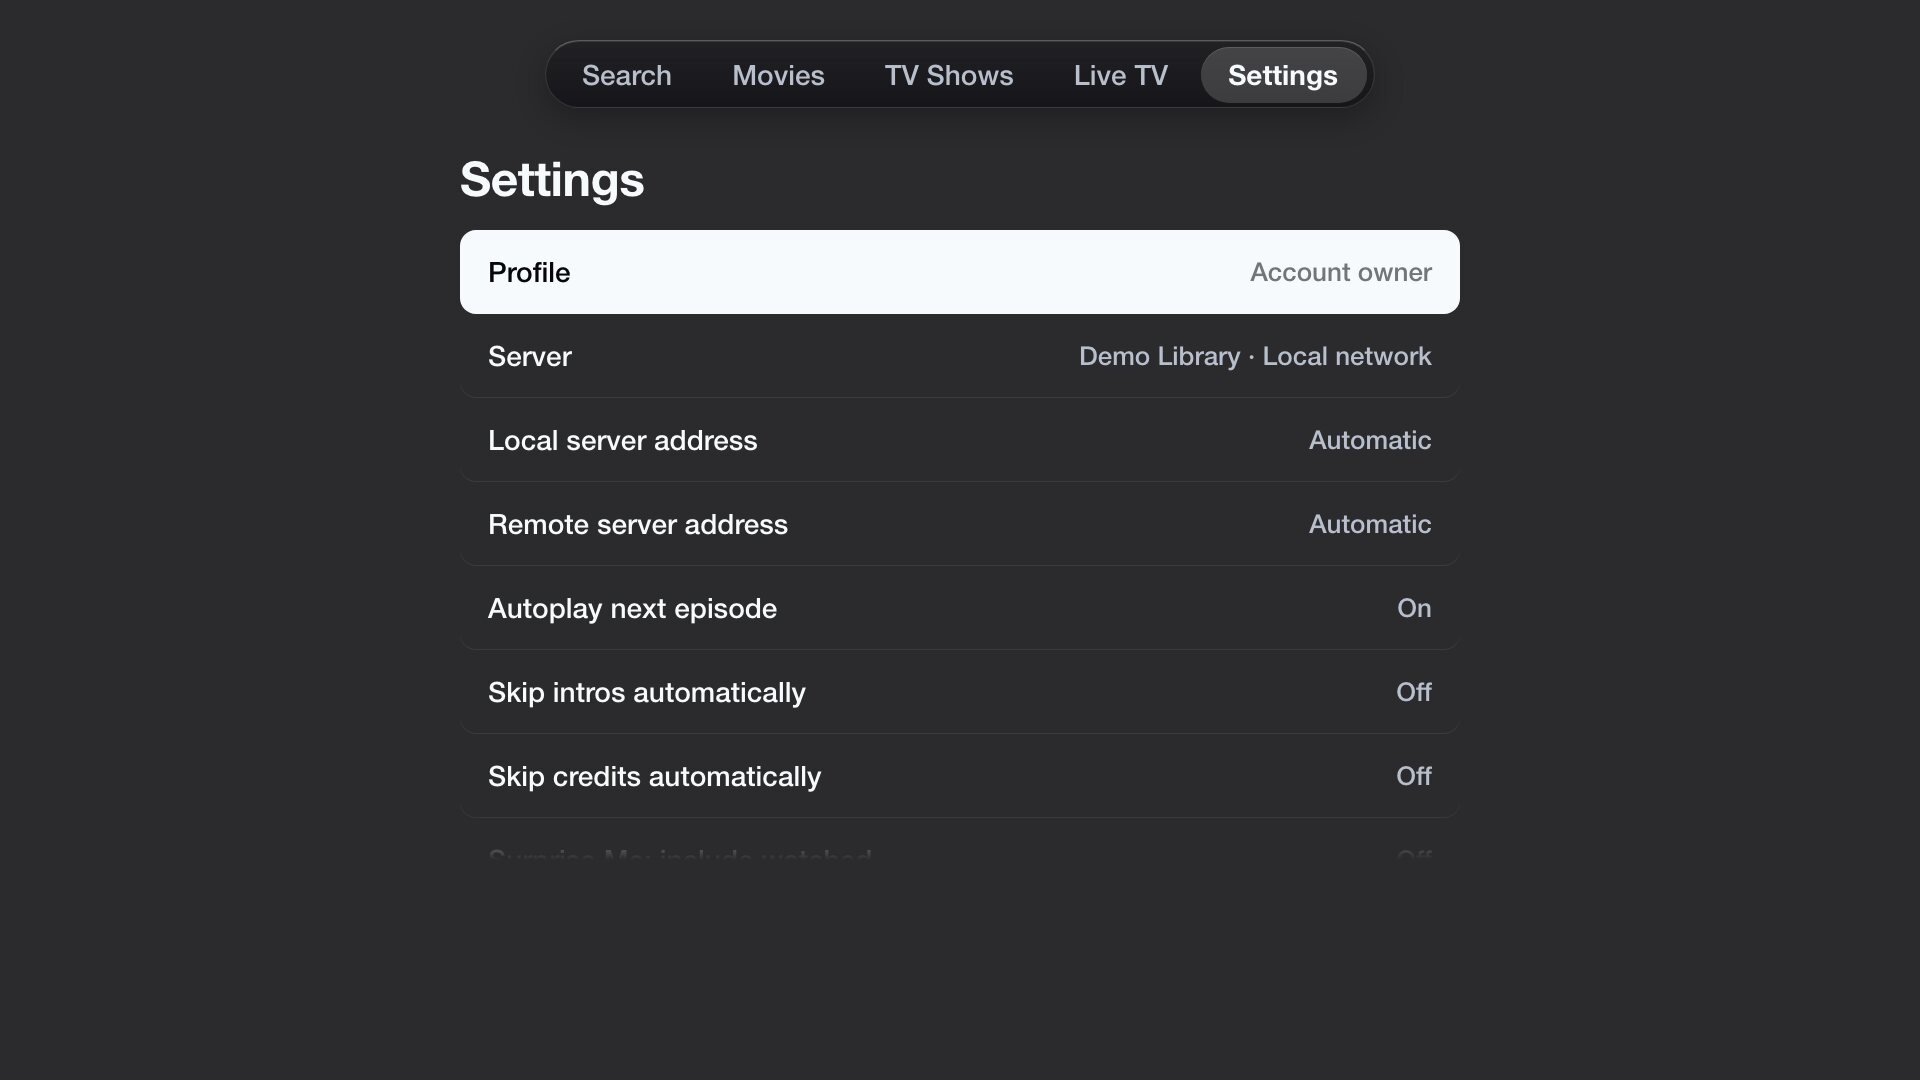
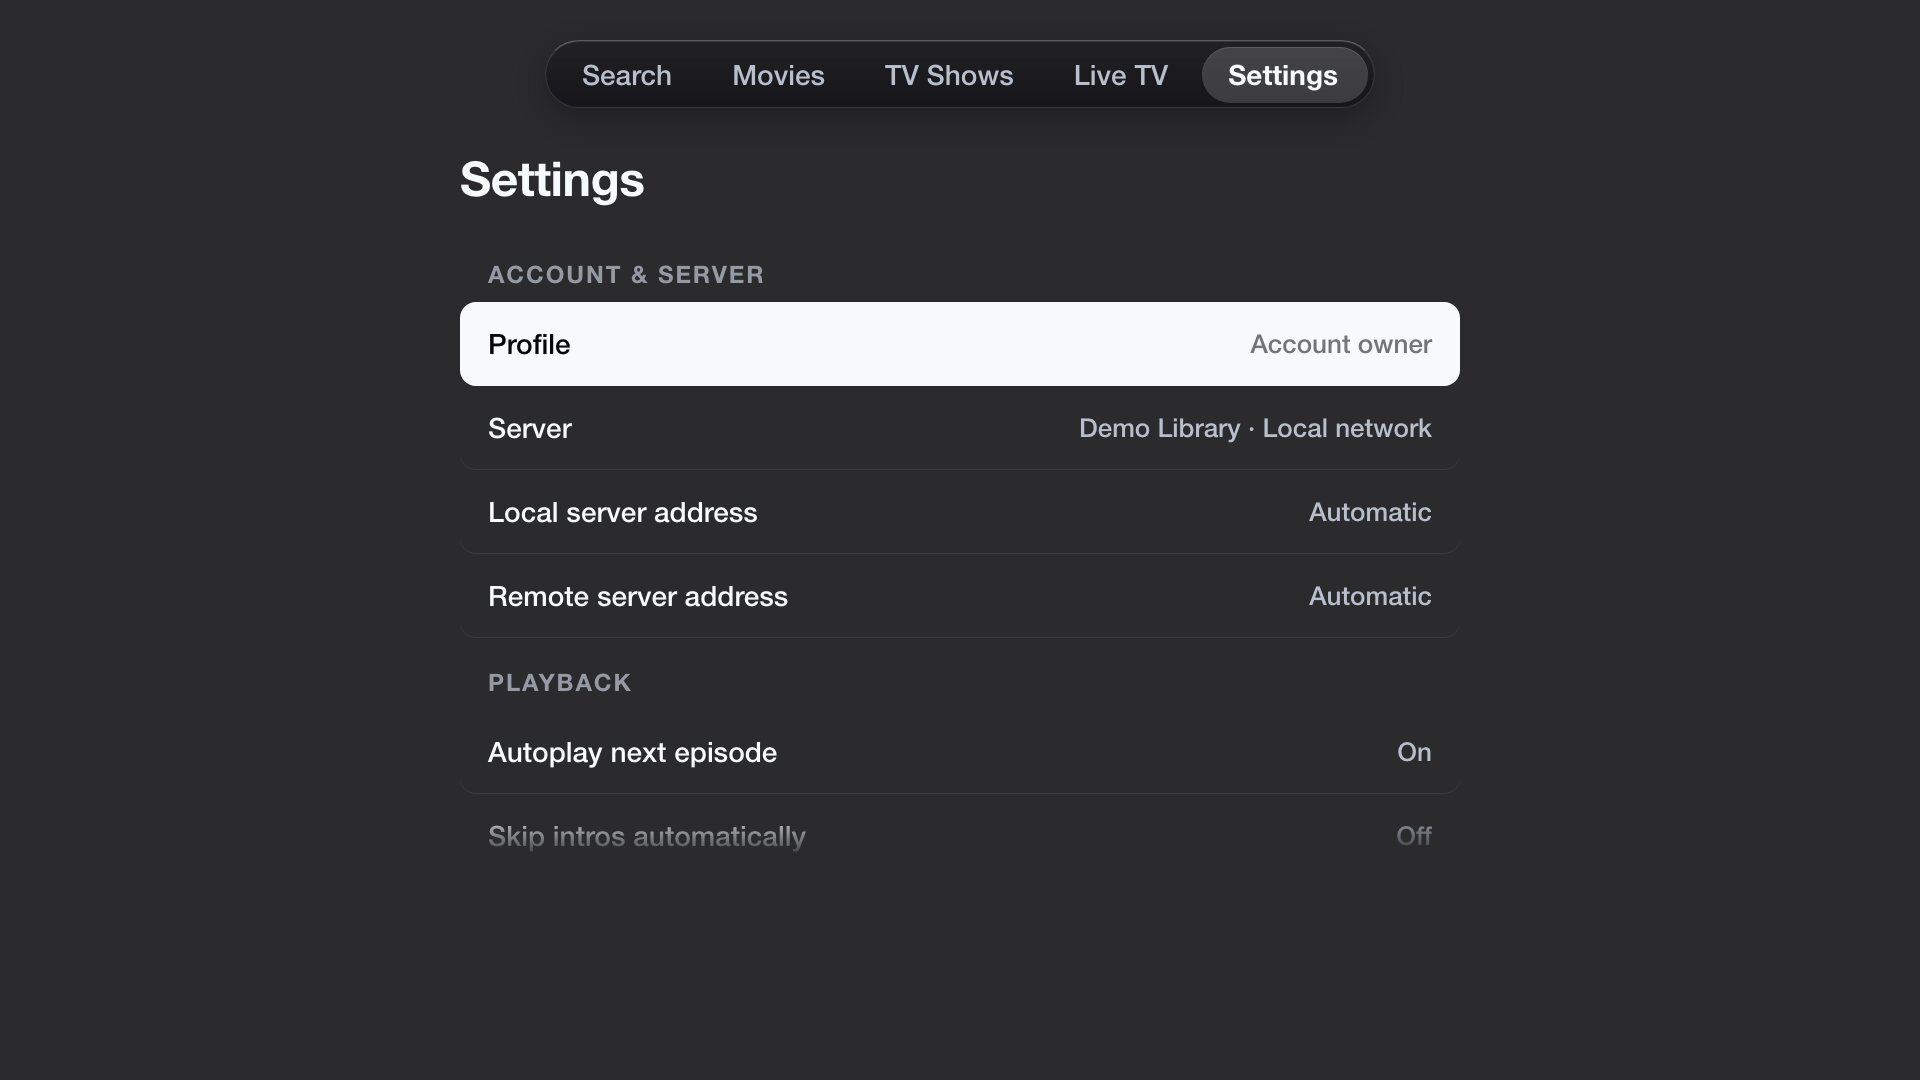
Settings: group rows under headings, Advanced at the end; Blue no longer toggles the perf overlay
Settings (TV and laptop) is grouped: Account & server, This browser (web), Playback, Surprise Me,
Plugins, Advanced, About. Headings are quiet uppercase labels that never take the focus; the list
scrolls to a heading or row boundary and keeps a group's heading above its first row. Advanced holds
Performance stats (formerly "Frame-rate meter") and Refresh search index. On phones and tablets,
Refresh search index moves to a new Advanced group.

Blue now only goes to screens that want it (Live TV guide, Browse, live player) and does nothing
elsewhere: a stray press had turned the perf overlay on during playback. app.perf stays for tools.

diff --git a/js/screens/settings.js b/js/screens/settings.js
@@ -1,4 +1,5 @@
-// Settings: server connection, frame-rate meter, sign out, about.
+// Settings: grouped rows (account and server, this browser on the web, playback, Surprise Me,
+// plugins, advanced, about) under section headings that the focus skips.
 'use strict';
 
 (function () {
@@ -30,27 +31,18 @@
       return { label: label, value: on ? 'On' : 'Off', action: function () { PL.storage.set(key, !on); build(); } };
     }
 
+    // Rows are grouped under section headings (quiet labels that never take the focus). Heights
+    // match css/theme.css (.row, .settings-heading): positions are worked out here, not measured.
+    var ROW = 84;
+    var HEAD = 72;
+    var height = 0;
+    var stops = []; // the top of every heading and row: the list scrolls to one of them
+
     function build() {
       var s = server();
-      var defs = [
-        { label: 'Profile', value: (PL.storage.get('profile', null) || { title: 'Account owner' }).title, action: pickProfile },
-        { label: 'Server', value: (s.name || '—') + ' · ' + (KIND_LABEL[s.kind] || 'Unknown'), action: reconnect },
-        // a browser on an https page can only use https addresses: one row, tried before discovery
-        PL.isWeb ? null : addressRow('Local server address', 'local', 'e.g. http://192.168.0.10:32400'),
-        addressRow(PL.isWeb ? 'Server address' : 'Remote server address', 'remote', 'e.g. https://plex.example.com:32400'),
-        PL.isWeb ? PL.web.settingsRows(build) : null,
-        toggle('Autoplay next episode', 'autoplayNext', true),
-        toggle('Skip intros automatically', 'autoSkipIntro', false),
-        toggle('Skip credits automatically', 'autoSkipCredits', false),
-        toggle('Surprise Me: include watched', 'surprise.includeWatched', false),
-        toggle('Surprise Me: autoplay countdown', 'surprise.autoplay', true),
-        { label: 'Frame-rate meter', value: PL.app.perf.on ? 'On' : 'Off', action: function () { PL.app.perf.toggle(); build(); } },
-        { label: 'Refresh search index', value: '', action: function () { if (PL.fuzzy && PL.fuzzy.rebuild) { PL.fuzzy.rebuild(); PL.toast('Rebuilding the search index…'); } } },
-        { label: 'Sign out', value: '', action: signOut },
-        { label: 'About', value: 'Plex Lite ' + PL.VERSION, action: function () {} },
-      ];
-      // Plugins: an On/Off row per installed plugin, then the enabled plugins' own rows; all before
-      // Sign out / About.
+      // Plugins: an On/Off row per installed plugin, then the enabled plugins' own rows, the ones this
+      // build can't run (the web build: a TV background service) saying why, installed sandboxed
+      // plugins, and Browse plugins.
       var pluginToggles = PL.plugins.list().filter(function (p) { return !p.external; }).map(function (p) {
         return {
           label: 'Plugin · ' + p.name,
@@ -62,30 +54,78 @@
           },
         };
       });
-      // plugins this build can't run (the web build: ones with a TV background service) say why
       var unavailable = PL.plugins.unavailable.map(function (p) {
         return { label: 'Plugin · ' + p.name, value: 'TV app only', action: function () { PL.web.explainPlugin(p); } };
       });
-      defs.splice(defs.length - 2, 0, pluginToggles, unavailable, externalPluginRows(), PL.plugins.settingsRows(build));
-      defs = [].concat.apply([], defs).filter(Boolean);
+      var groups = [
+        ['Account & server', [
+          { label: 'Profile', value: (PL.storage.get('profile', null) || { title: 'Account owner' }).title, action: pickProfile },
+          { label: 'Server', value: (s.name || '—') + ' · ' + (KIND_LABEL[s.kind] || 'Unknown'), action: reconnect },
+          // a browser on an https page can only use https addresses: one row, tried before discovery
+          PL.isWeb ? null : addressRow('Local server address', 'local', 'e.g. http://192.168.0.10:32400'),
+          addressRow(PL.isWeb ? 'Server address' : 'Remote server address', 'remote', 'e.g. https://plex.example.com:32400'),
+        ]],
+        PL.isWeb ? ['This browser', PL.web.settingsRows(build)] : null,
+        ['Playback', [
+          toggle('Autoplay next episode', 'autoplayNext', true),
+          toggle('Skip intros automatically', 'autoSkipIntro', false),
+          toggle('Skip credits automatically', 'autoSkipCredits', false),
+        ]],
+        ['Surprise Me', [
+          toggle('Include watched titles', 'surprise.includeWatched', false),
+          toggle('Autoplay countdown', 'surprise.autoplay', true),
+        ]],
+        ['Plugins', [pluginToggles, PL.plugins.settingsRows(build), unavailable, externalPluginRows()]],
+        ['Advanced', [
+          // the overlay in js/app.js: frames a second, the longest frame, JS heap and DOM nodes
+          { label: 'Performance stats', value: PL.app.perf.on ? 'On' : 'Off', action: function () { PL.app.perf.toggle(); build(); } },
+          { label: 'Refresh search index', value: '', action: function () { if (PL.fuzzy && PL.fuzzy.rebuild) { PL.fuzzy.rebuild(); PL.toast('Rebuilding the search index…'); } } },
+        ]],
+        ['About', [
+          { label: 'Plex Lite', value: PL.VERSION, action: function () {} },
+          { label: 'Sign out', value: '', action: signOut },
+        ]],
+      ];
       PL.clear(panel);
-      rows = defs.map(function (d, i) {
-        var n = PL.el('div', 'row', d.label);
-        if (d.value) n.appendChild(PL.el('span', 'row-value', d.value));
-        n.addEventListener('click', function () { index = i; d.action(); });
-        panel.appendChild(n);
-        return { node: n, def: d };
+      rows = [];
+      stops = [];
+      height = 0;
+      groups.forEach(function (g) {
+        var list = g ? [].concat.apply([], g[1]).filter(Boolean) : [];
+        if (!list.length) return;
+        panel.appendChild(PL.el('div', 'settings-heading', g[0]));
+        stops.push(height);
+        height += HEAD;
+        list.forEach(function (d) {
+          var i = rows.length;
+          var n = PL.el('div', 'row', d.label);
+          if (d.value) n.appendChild(PL.el('span', 'row-value', d.value));
+          n.addEventListener('click', function () { index = i; d.action(); });
+          panel.appendChild(n);
+          rows.push({ node: n, def: d, top: height });
+          stops.push(height);
+          height += ROW;
+        });
       });
+      // a rebuild can have fewer rows (a plugin removed)
+      index = Math.max(0, Math.min(index, rows.length - 1));
       paint();
     }
 
-    // the panel shows ~8 rows; longer lists scroll to keep the focused row in view
+    // The panel shows 630 px (~7.5 rows); a longer list scrolls so the focused row's bottom edge stays
+    // within the first seven rows' height, so a half row always peeks under the fade, and the top edge
+    // lands on a heading or row (no sliver of the one above). At least 420 px stay in view above the
+    // focused row, so a group's heading always shows above its first row.
     function paint() {
       rows.forEach(function (r, i) { r.node.classList.toggle('focused', area === 'panel' && !PL.app.tabsFocused && i === index); });
-      // ~7.5 rows show (690 px panel), so a half row always peeks under the fade
-      var shift = Math.max(0, (index + 1) * 84 - 84 * 7);
+      var r = rows[index];
+      var need = r ? r.top + ROW - ROW * 7 : 0;
+      var shift = 0;
+      for (var i = 0; need > 0 && i < stops.length; i++) {
+        if (stops[i] >= need) { shift = stops[i]; break; }
+      }
       PL.translate(panel, 0, -shift);
-      panelBox.classList.toggle('more', rows.length * 84 - shift > 630);
+      panelBox.classList.toggle('more', height - shift > 630);
     }
 
     function reconnect() {
@@ -136,16 +176,16 @@
     }
 
     // Separately installed (sandboxed) plugins: status row → a sheet with permissions, enable
-    // (consent), its own settings, turn off, and remove access.
+    // (consent), its own settings, turn off, and remove access. Browse plugins comes last.
     function externalPluginRows() {
       var host = PL.pluginHost;
       if (!host || !host.list || !host.grants) return [];
       var browse = PL.pluginStore ? [{ label: 'Browse plugins', value: '', action: browsePlugins }] : [];
-      return browse.concat(host.list().map(function (p) {
+      return host.list().map(function (p) {
         var on = p.active && PL.plugins.isEnabled(p.id);
         var value = p.disabled ? 'Error' : !p.active ? (host.grants.get(p.id) ? 'Needs permission' : 'Off') : on ? (p.holdsToken ? 'On · Plex sign-in' : 'On') : 'Off';
         return { label: 'Plugin · ' + p.title, value: value, action: function () { externalPluginSheet(p); } };
-      }));
+      }).concat(browse);
     }
 
     var STATE_TEXT = { 'not-installed': 'Not installed', installed: 'Installed', connected: 'Connected' };

diff --git a/web/touch/screens/settings.js b/web/touch/screens/settings.js
@@ -2,8 +2,9 @@
 // right of every tab opens it. It is a stack of sheets, not a page: who's signed in and Switch
 // profile, the libraries and plugin tabs that have no tab of their own, the server, playback,
 // Controls and the other browser settings, plugins (installed, the catalogue, Overseerr's web
-// path), About and Sign out. Everything the TV's Settings offers in a browser, from the same shared
-// code (PL.plex, PL.input, PL.web, PL.plugins, PL.pluginHost, PL.pluginStore).
+// path), Advanced (Refresh search index), About and Sign out. Everything the TV's Settings offers in
+// a browser, from the same shared code (PL.plex, PL.input, PL.web, PL.plugins, PL.pluginHost,
+// PL.pluginStore).
 //
 // Plugins and parts of the web layer open the TV's own sheets and text entry (PL.screens.sheet,
 // PL.screens.textEntry, PL.web.info) and close them with PL.app.pop(). While the layer shows, those
@@ -921,6 +922,9 @@
       PL.web ? { label: 'Local network access', value: PL.web.lnaLabel(), next: true, action: () => PL.web.explainLna() } : null,
       fullscreenOk() ? { label: 'Full screen', toggle: isFull(), action: () => { PL.web.toggleFullscreen(); setTimeout(refreshAll, 400); } } : null,
       PL.input.detected() !== 'touch' && PL.web && PL.web.shortcuts ? { label: 'Keyboard shortcuts', sub: 'Shown over the page; ? opens them too', next: true, action: () => PL.web.shortcuts() } : null,
+    ];
+    // as on the TV (js/screens/settings.js); the TV's Performance stats overlay isn't drawn on this layer
+    const advanced = [
       PL.fuzzy && PL.fuzzy.rebuild ? { label: 'Refresh search index', sub: 'If Search misses new titles', action: () => { PL.fuzzy.rebuild(); T.toast('Rebuilding the search index…'); } } : null,
     ];
     // bundled plugins' own rows (Overseerr), then Overseerr's web requirements
@@ -952,6 +956,7 @@
         ] },
         { heading: 'This device', rows: device },
         { heading: 'Plugins', rows: pluginRows.concat([{ label: 'Plugins', value: installed ? String(installed) : '', sub: 'Installed plugins and the catalogue', icon: 'grid', next: true, action: pluginsSheet }]) },
+        { heading: 'Advanced', rows: advanced },
         { heading: 'About', rows: [
           { label: 'Plex Lite', value: PL.VERSION, icon: 'info', next: true, action: aboutSheet },
           { label: 'Sign out', icon: 'signout', danger: true, action: signOut },

diff --git a/js/app.js b/js/app.js
@@ -302,9 +302,10 @@
     if (typing && code === PL.KEY.BACKSPACE) return; // deletes a character, not "back"
     if (typing && !PL.isBack(code) && code !== PL.KEY.DOWN && code !== PL.KEY.UP && code !== PL.KEY.ENTER) return;
     var screen = app.top();
-    // Blue: Live TV's Browse rail where there is one (guide, live player), else the perf overlay
+    // Blue: Live TV's Browse rail where there is one (guide, Browse, live player); nothing elsewhere.
+    // (It used to toggle the perf overlay, which a stray press turned on: that is in Settings now.)
     if (code === PL.KEY.BLUE && !typing) {
-      if (!(screen && screen.wantsBlue && screen.key && screen.key(code, e))) perf.toggle();
+      if (screen && screen.wantsBlue && screen.key) screen.key(code, e);
       e.preventDefault();
       return;
     }
@@ -327,7 +328,7 @@
     if (handled || (code >= 37 && code <= 40)) e.preventDefault();
   }
 
-  // ---- Performance overlay (Blue button) ---------------------------------------------------
+  // ---- Performance overlay (Settings > Advanced > Performance stats; app.perf for tools) -----
 
   var perf = {
     el: null,

diff --git a/css/theme.css b/css/theme.css
@@ -196,6 +196,11 @@ html, body { background: var(--ground); color: var(--text); }
 .row .row-value { font-size: 26px; color: var(--text-2); }
 .row.focused { background: var(--focus); color: var(--focus-ink); box-shadow: none; }
 .row.focused .row-value { color: rgba(8, 8, 10, 0.55); }
+/* a group's heading in Settings: a quiet label, never focused (72 px: js/screens/settings.js HEAD) */
+.settings-heading {
+  height: 72px; padding: 30px 28px 0; font-size: 24px; line-height: 28px; font-weight: 600;
+  letter-spacing: 0.08em; text-transform: uppercase; color: var(--text-3); white-space: nowrap;
+}
 
 .center-card {
   background: linear-gradient(180deg, rgba(58, 58, 64, 0.6), rgba(40, 40, 46, 0.6));

diff --git a/CHANGELOG.md b/CHANGELOG.md
@@ -11,6 +11,14 @@ releases are fixes only.
 
 ### Changed
 
+- **Settings is grouped** under section headings: Account & server, This browser (web), Playback,
+  Surprise Me, Plugins, Advanced and About. The headings are labels only: Up and Down skip them.
+  Advanced holds Performance stats (the developer overlay: frames a second, the longest frame, JS
+  heap and DOM nodes, formerly "Frame-rate meter") and Refresh search index. On phones and tablets,
+  Refresh search index moves from This device to a new Advanced group.
+- **Blue no longer turns on the performance overlay.** Outside Live TV (the guide, Browse and the
+  live player, where it opens Browse) Blue does nothing; the overlay is Settings → Advanced →
+  Performance stats.
 - **Continue Watching plays at once**, on the TV, laptops and phones: choosing an episode in Continue
   Watching or Recently Released Episodes, or a film in Continue Watching, starts it (resuming where it
   was left) instead of opening its page. Hold OK, right-click, "…" or a long press still offer the
@@ -127,8 +135,8 @@ releases are fixes only.
 ### Changed
 
 - Live TV's filter row (All, Favourites, Movies, Sports, News) is replaced by the Browse rail and its
-  chips; Blue opens Browse on the Live TV tab and in the live player (the frame-time overlay stays on
-  Blue elsewhere).
+  chips; Blue opens Browse on the Live TV tab and in the live player, and does nothing elsewhere (the
+  frame-time overlay moved to Settings → Advanced → Performance stats).
 - Live TV rebuilt (docs/LIVETV-v2-design.md). The tab is a two-hour guide grid of every channel in
   the DVR's lineup (channels without guide data too), with the focused programme's details, synopsis
   and artwork above it, filters (All, Favourites, Movies, Sports, News), number keys to jump to a

diff --git a/docs/DESIGN.md b/docs/DESIGN.md
@@ -86,7 +86,10 @@ Transform and opacity only.
   silver or pale on a transparent background, with little that is dark) gets a dark `#3b3e46` plate
   with a hairline rim. Each logo is sampled once in a 32×16 canvas (Plex sends CORS headers);
   mid-grey if it can't be read (`js/logos.js`, `css/logos.css`).
-- **Settings:** quiet rows on the ground (hairline separators), white plate on focus.
+- **Settings:** quiet rows on the ground (hairline separators), white plate on focus, in groups
+  (Account & server, This browser on the web, Playback, Surprise Me, Plugins, Advanced, About) under
+  24 px uppercase `--text-3` labels like a sheet's headings. The labels never take the focus; Up and
+  Down skip them, and the list scrolls so a group's label shows above its first row.
 - **Live TV** (spec and remote tables in [LIVETV-v2-design.md](LIVETV-v2-design.md)): a two-hour time
   grid on the plain ground, six channels down. The focused programme's details sit above it like a small
   hero (red LIVE pill, 48 px title, a two-line synopsis, 400×225 art at the right); a ruler with a teal

diff --git a/docs/LIVETV-browse-design.md b/docs/LIVETV-browse-design.md
@@ -184,8 +184,9 @@ Cards exist only for the shelves near the focus (two each way), so art loads onl
 | Player | Blue | the Browse rail over the picture |
 | | Up / Down, CH+ / CH− | the mini guide and zapping stay inside the filter |
 
-Blue used to toggle a developer frame-time overlay everywhere; it still does outside the Live TV tab
-and the live player.
+Blue used to toggle a developer frame-time overlay everywhere, and still did outside the Live TV tab
+and the live player until a stray press turned it on during a film. Blue now does nothing outside
+Live TV; the overlay is Settings → Advanced → Performance stats.
 
 ## Data and speed
 

diff --git a/README.md b/README.md
@@ -137,7 +137,7 @@ Spin again, Details and Cancel are on screen. Moving between them stops the coun
 cancels.
 
 - It picks from unwatched titles. If everything has been watched, it picks from all of them and
-  says it's a rewatch. Settings has "Surprise Me: include watched" and "Surprise Me: autoplay
+  says it's a rewatch. Settings → Surprise Me has "Include watched titles" and "Autoplay
   countdown".
 - In the Library view it uses the active Genre and Decade filters (the pill shows them), and the
   Unwatched filter makes "unwatched only" strict.

diff --git a/docs/PLUGINS.md b/docs/PLUGINS.md
@@ -51,7 +51,8 @@ cheap; the TV has a 1.1 GHz CPU and Chrome 53.
 
 ### settingsRows(ctx) → rows
 
-Rows appended to Settings (before Sign out). Call `ctx.refreshSettings()` after changing state.
+Rows in Settings' Plugins group, after the plugins' On/Off rows. Call `ctx.refreshSettings()` after
+changing state.
 
 ```js
 settingsRows: function (ctx) {
